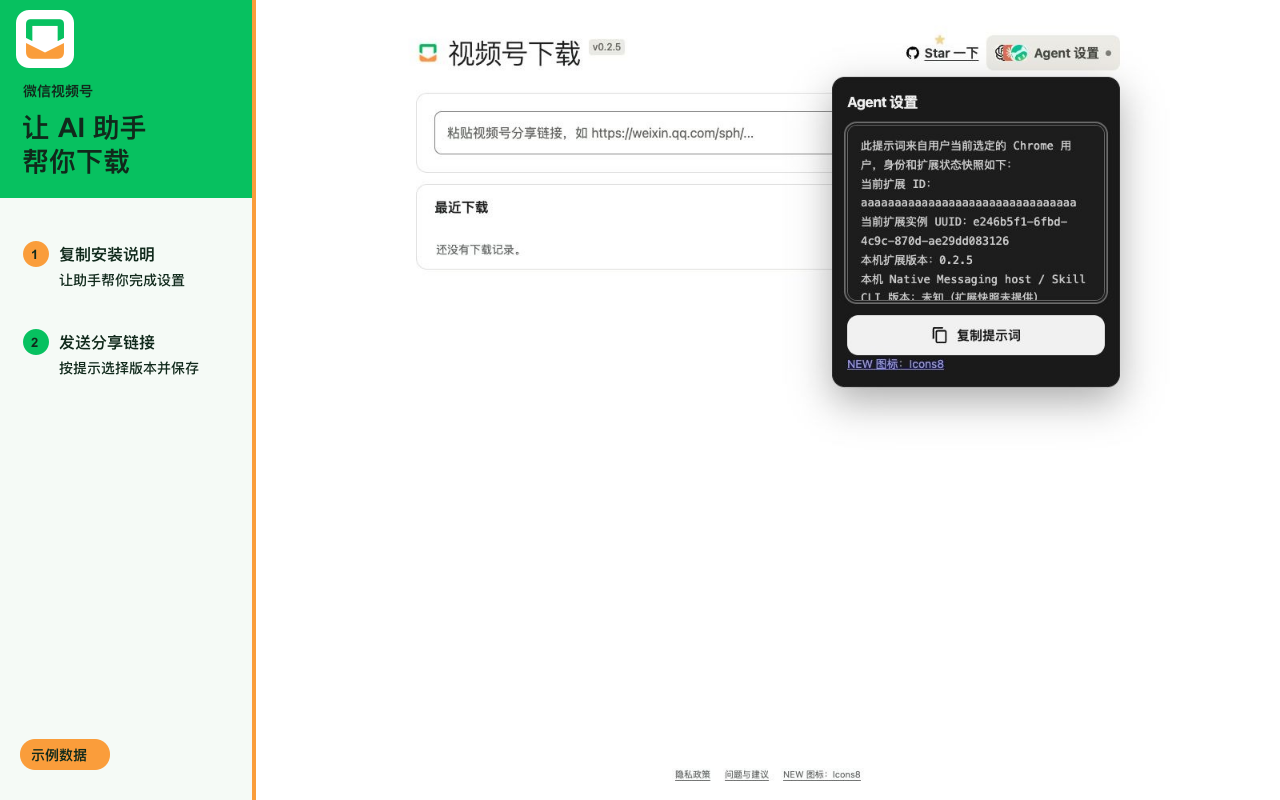
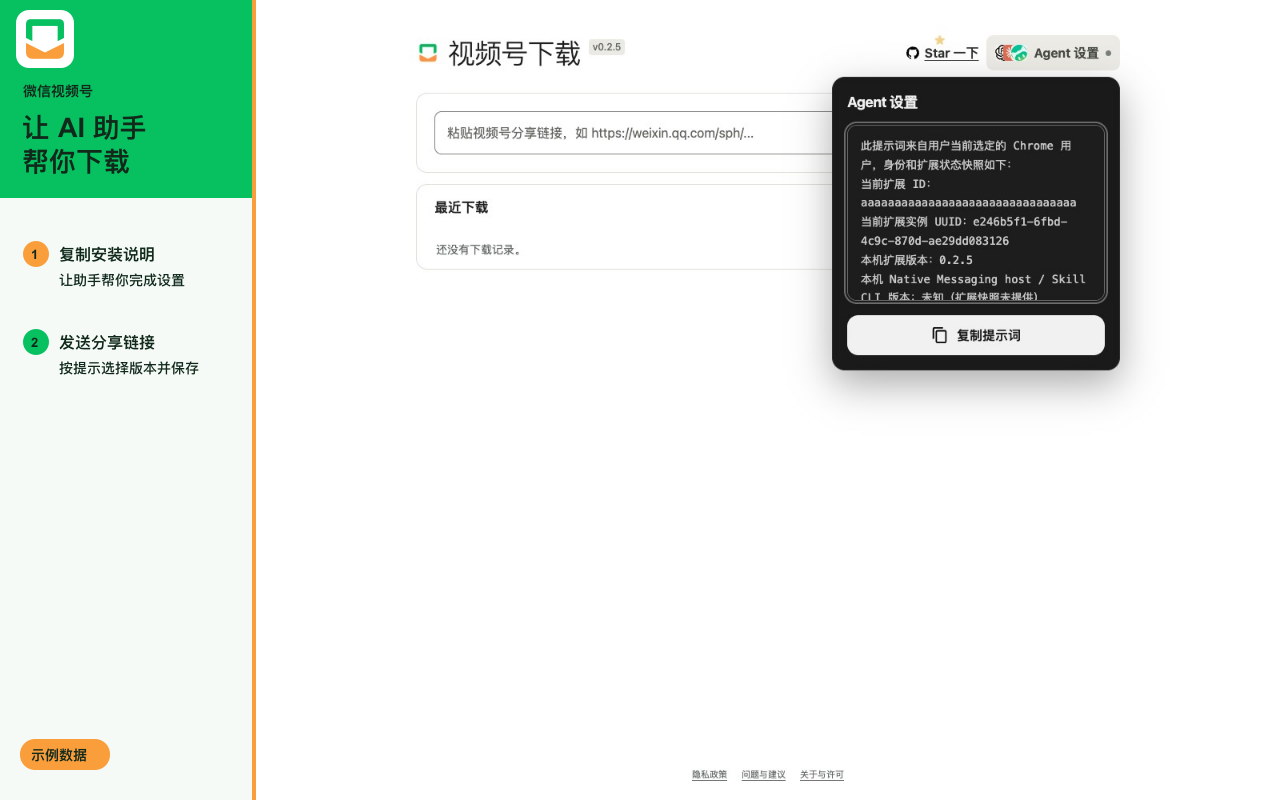
fix(extension): 集中图标署名并清理重复展示
移除主页、Agent 设置与宣传文案中的重复署名，将来源和许可集中到独立页面。刷新商店截图，清理许可文件的网页数据，并停止向 Skill 复制扩展专用说明。

Changed region(s): [[0.6562, 0.4375, 0.875, 0.5312], [0.5312, 0.9375, 0.6562, 1.0]]

diff --git a/extension/about.html b/extension/about.html
@@ -1,0 +1,20 @@
+<!doctype html>
+<html lang="zh-CN">
+  <head>
+    <meta charset="utf-8">
+    <meta name="viewport" content="width=device-width, initial-scale=1">
+    <title>关于与许可 · 视频号下载</title>
+    <link rel="stylesheet" href="./styles.css">
+  </head>
+  <body>
+    <main class="shell">
+      <header class="page-header"><h1>关于与许可</h1></header>
+      <section class="card" aria-label="来源与许可">
+        <p>更新提示图标由 <a href="https://icons8.com/icon/61006/new" target="_blank" rel="noreferrer">Icons8</a> 提供，使用条件见<a href="./icons/Icons8-LICENSE.txt">图标许可全文</a>。</p>
+        <p>其他图标与组件的来源见 <a href="./NOTICE.md">来源说明</a>。</p>
+        <p><a href="./LICENSE">项目许可</a> · <a href="./THIRD_PARTY_LICENSES.txt">第三方组件许可</a></p>
+      </section>
+      <footer class="page-footer"><a href="./index.html">返回主页</a></footer>
+    </main>
+  </body>
+</html>

diff --git a/extension/index.html b/extension/index.html
@@ -80,7 +80,6 @@
           </span>
           <span id="ai-download-prompt-copy-label" aria-live="polite" aria-atomic="true">复制提示词</span>
         </button>
-        <p class="status"><a href="https://icons8.com/icon/61006/new" target="_blank" rel="noreferrer">NEW 图标：Icons8</a></p>
       </div>
 
       <section class="card input-card" aria-label="解析视频号分享链接">
@@ -197,7 +196,7 @@
       <footer class="page-footer">
         <a id="privacy-link" target="_blank" rel="noreferrer">隐私政策</a>
         <a id="feedback-link" target="_blank" rel="noreferrer">问题与建议</a>
-        <a href="https://icons8.com/icon/61006/new" target="_blank" rel="noreferrer">NEW 图标：Icons8</a>
+        <a href="./about.html" target="_blank" rel="noreferrer">关于与许可</a>
       </footer>
     </main>
   </body>

diff --git a/docs/chrome-web-store/captures/README.md b/docs/chrome-web-store/captures/README.md
@@ -4,7 +4,7 @@
 
 The fixture does not sign in, read a browser profile, contact the upstream parser, invoke Native Messaging, or download files. `?capture=empty` shows the parsed result without recent records, the default mode shows one recent record, and `?capture=history` shows seven synthetic history records.
 
-`agent.jpg` shows the actual **Agent 设置** popover with its ordinary **复制提示词** button and Icons8 credit visible. Its instance UUID and extension ID are synthetic. No connection or login snapshot is supplied, so the UI reports an unknown connection state; the screenshot does not claim a successful connection or login, and the copy action is not triggered.
+`agent.jpg` shows the actual **Agent 设置** popover with its ordinary **复制提示词** button. Its instance UUID and extension ID are synthetic. No connection or login snapshot is supplied, so the UI reports an unknown connection state; the screenshot does not claim a successful connection or login, and the copy action is not triggered.
 
 ## Reproduce
 
@@ -44,7 +44,7 @@ capture_extension=/Volumes/2T/.codex/tmp/store-capture-025/extension
 /Volumes/2T/.codex/bin/external-dev python3 -m http.server 4173 --bind 127.0.0.1 --directory "$capture_extension"
 ```
 
-Open `http://127.0.0.1:4173/index.html?capture=empty` in a local browser and enter `https://weixin.qq.com/sph/demo-capture-025` to show the result. Open `http://127.0.0.1:4173/index.html?capture=history` and choose **查看全部** for the history view. These screenshots were captured from the browser's 1280×1000 viewport using CUA `getScreenshot()` and saved with `node:fs/promises.writeFile`.
+Open `http://127.0.0.1:4173/index.html?capture=empty` in a local browser and enter `https://weixin.qq.com/sph/demo-capture-025` to show the result. Open `http://127.0.0.1:4173/index.html?capture=history` and choose **查看全部** for the history view. These screenshots were captured from the browser's 1280×1000 viewport using CUA's browser CDP `Page.captureScreenshot` and saved with `node:fs/promises.writeFile`.
 
 To reproduce `agent.jpg`, open the `?capture=empty` page, leave the input empty, and open **Agent 设置** without clicking **复制提示词**.
 

diff --git a/docs/extension.md b/docs/extension.md
@@ -2,7 +2,7 @@
 
 安装方式见[项目 README](../README.md#chrome-扩展)。
 
-发现新版本时，标题右上角的版本号替换为 Icons8 红色 `NEW` 图标，Chrome 扩展图标也显示 `NEW` 角标；将图标固定到工具栏可直接看到提醒。商店安装版在 Chrome 确认更新已下载后显示 `NEW`，点击直接进入 Chrome 商店的插件详情页。非商店版低频检查公开的稳定扩展 Release，点击 `NEW` 直接下载对应 ZIP 安装包，并打开 `chrome://extensions/` 扩展管理页；下载后仍需解压并重新加载扩展。没有新版、检查失败或更新完成时只显示当前版本，不额外提示。GitHub 发布或提交商店审核不代表 Chrome Web Store 已发布该版本，商店版以 Chrome 实际提供的更新为准。
+发现新版本时，标题右上角的版本号替换为红色 `NEW` 图标，Chrome 扩展图标也显示 `NEW` 角标；将图标固定到工具栏可直接看到提醒。商店安装版在 Chrome 确认更新已下载后显示 `NEW`，点击直接进入 Chrome 商店的插件详情页。非商店版低频检查公开的稳定扩展 Release，点击 `NEW` 直接下载对应 ZIP 安装包，并打开 `chrome://extensions/` 扩展管理页；下载后仍需解压并重新加载扩展。没有新版、检查失败或更新完成时只显示当前版本，不额外提示。GitHub 发布或提交商店审核不代表 Chrome Web Store 已发布该版本，商店版以 Chrome 实际提供的更新为准。
 
 1. 在安装扩展的 Chrome 用户中登录 [腾讯元宝](https://yuanbao.tencent.com/)。
 2. 点击扩展图标，在打开的页面中粘贴分享链接并解析。

diff --git a/NOTICE.md b/NOTICE.md
@@ -16,6 +16,6 @@
 
 ## UI 组件
 
-更新提示中内嵌的 PNG 来自 [Icons8 的 New 图标（iOS Glyph，ID 61006）](https://icons8.com/icon/61006/new)，使用官方提供的免费 60×60 PNG，颜色为 `FA5252`。该图标遵循 [Icons8 许可](https://icons8.com/license)，不适用本项目源码的 Apache 2.0 许可；扩展页面底部及 Agent 设置保留可点击的 Icons8 来源署名。完整许可随扩展保存在 `icons/Icons8-LICENSE.txt`。图标仅作为应用界面的一部分提供，不得从源码或安装包中提取并作为独立素材分发；本项目的 Apache 2.0 许可不授予 Icons8 素材的独立使用或分发权。
+更新提示中内嵌的 PNG 来自 [Icons8 的 New 图标（iOS Glyph，ID 61006）](https://icons8.com/icon/61006/new)，使用官方提供的免费 60×60 PNG，颜色为 `FA5252`。该图标遵循 [Icons8 许可](https://icons8.com/license)，不适用本项目源码的 Apache 2.0 许可；按其桌面应用署名指引，在扩展的“关于与许可”页保留可点击的来源链接。完整许可随扩展保存在 `icons/Icons8-LICENSE.txt`。图标仅作为应用界面的一部分提供，不得从源码或安装包中提取并作为独立素材分发；本项目的 Apache 2.0 许可不授予 Icons8 素材的独立使用或分发权。
 
 下载记录的日期筛选和排序使用 [Shoelace](https://shoelace.style/) 2.20.1，采用 MIT 许可。本地构建包含组件及其依赖，不从 CDN 加载。扩展构建目录中的 `THIRD_PARTY_LICENSES.txt` 保留所用第三方包的完整版权与许可声明。

diff --git a/docs/chrome-web-store/REVIEW.md b/docs/chrome-web-store/REVIEW.md
@@ -8,7 +8,7 @@
 
 导出脚本、fixture、自检脚本的 `node --check` 与 `git diff --check` 通过。上一轮 fixture 自检通过；本轮仅增加合成实例 UUID 和对应断言。尝试经 `external-dev heavy-dev` 重跑自检时，全机重任务锁被其他任务占用，入口返回 75，因此本轮自检未执行。没有绕过锁或将旧结果描述为当前自检通过。Agent 设置画面已在隔离浏览器实际打开并截图，连接与登录保持未知状态。
 
-截图已刷新为本次 0.2.5 候选的实际构建界面，包含完整展开的视频信息和 Icons8 署名。Chrome API 与视频内容为标注的示例，不代表真实账号、上游解析、AI 连接或下载验收。来源与复现见 [截图说明](captures/README.md)。
+截图已刷新为本次 0.2.5 候选的实际构建界面，包含完整展开的视频信息；图标来源统一放在独立的“关于与许可”页。Chrome API 与视频内容为标注的示例，不代表真实账号、上游解析、AI 连接或下载验收。来源与复现见 [截图说明](captures/README.md)。
 
 ## Hard Gate
 

diff --git a/README.md b/README.md
@@ -104,4 +104,4 @@ npm run worker:deploy
 
 本仓库的许可见 [LICENSE](LICENSE)。参考项目采用 [MIT + Commons Clause](https://github.com/ltaoo/wx_channels_download/blob/main/LICENSE)，包含收费提供基于其功能的产品或服务的限制。若复用其代码，必须保留对应的版权与许可声明；涉及收费产品或服务时，应按其许可取得授权。
 
-更新提示图标来自 [Icons8 New（iOS Glyph）](https://icons8.com/icon/61006/new)，使用与分发限制见 [NOTICE.md](NOTICE.md)。
+第三方图标与组件的来源及许可见 [NOTICE.md](NOTICE.md)。

diff --git a/docs/chrome-web-store/README.md b/docs/chrome-web-store/README.md
@@ -16,8 +16,6 @@
 
 **可选：AI 助手接入**：如果你想让 AI 助手从分享链接帮你下载，可复制项目提供的安装说明，让助手帮你完成设置。此功能需要在电脑上完成一次配套安装，目前支持 macOS 和 Windows；AI 助手的配套工具与扩展分开安装。
 
-NEW 图标由 Icons8 提供：https://icons8.com/icon/61006/new
-
 ## 素材清单与展示顺序
 
 | 顺序 | 文件 | 用途 |
